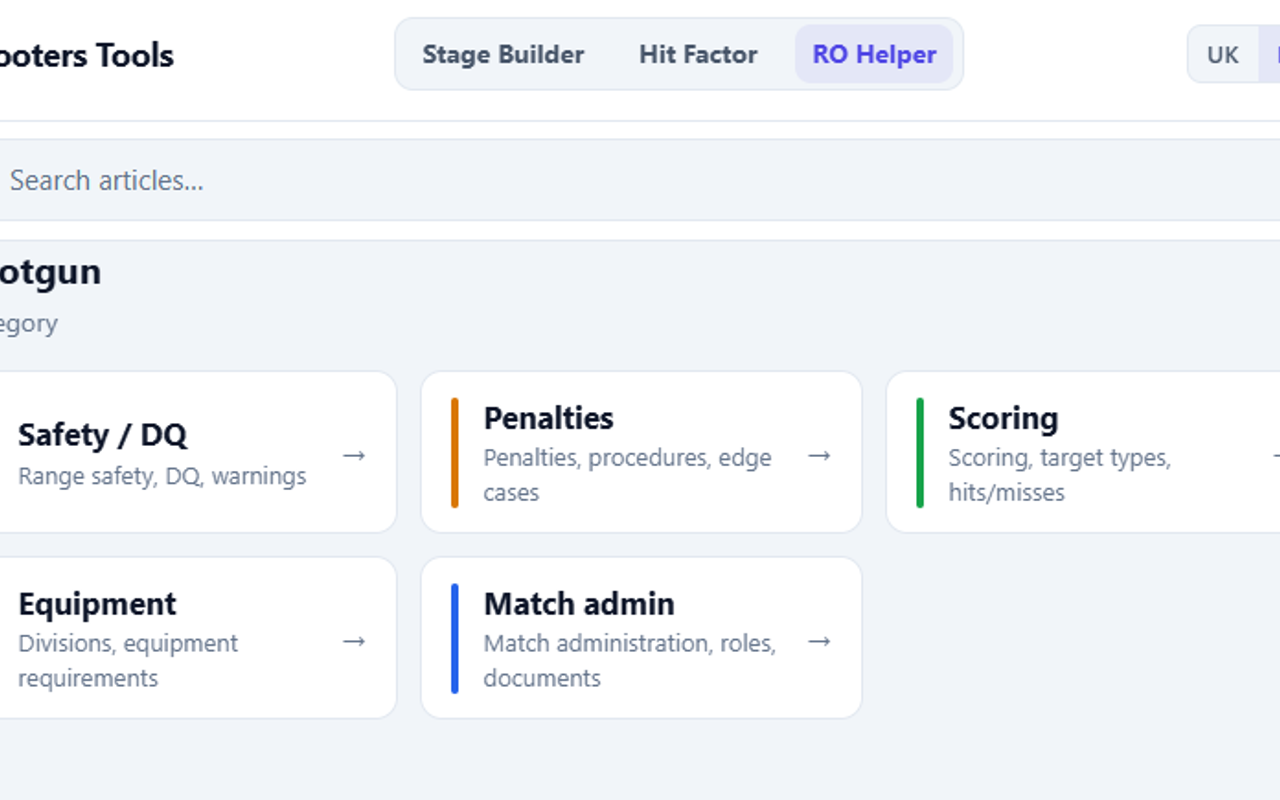
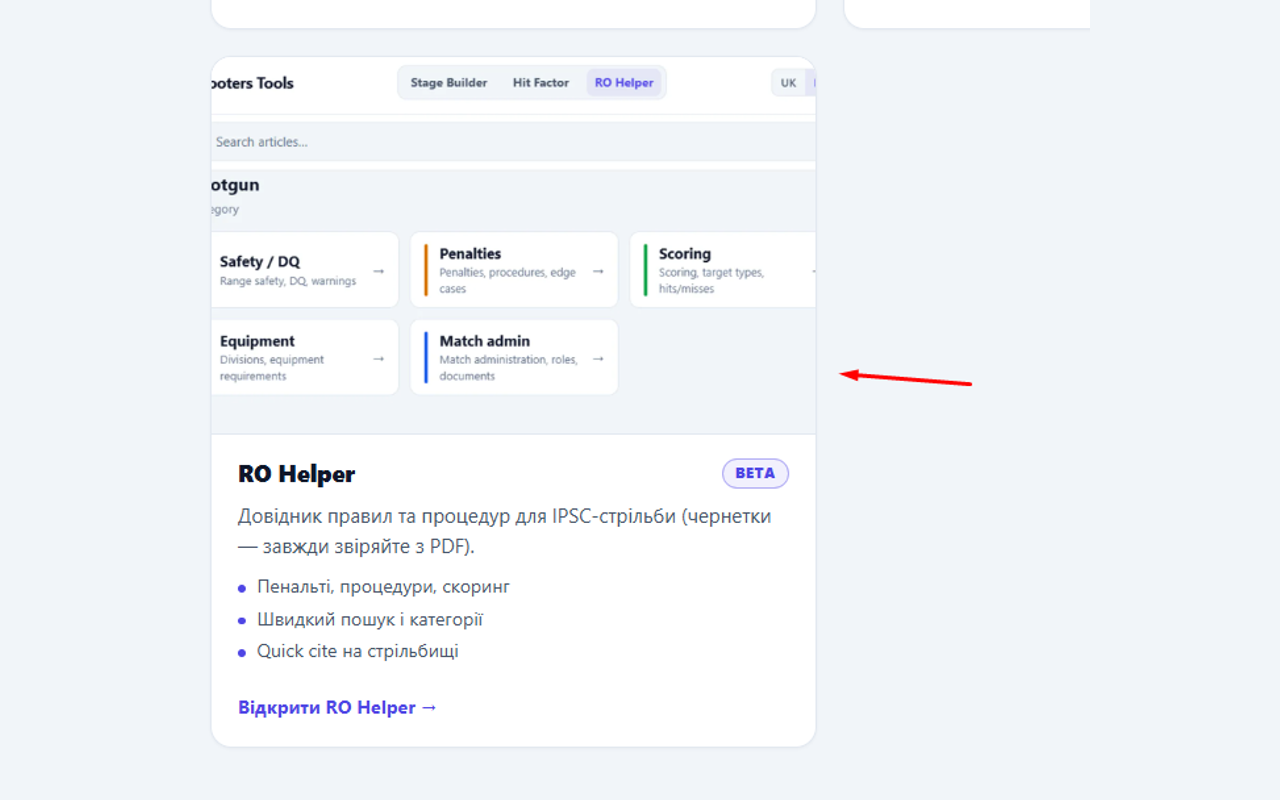
fix(portal): RO Helper preview shows full screenshot without harsh crop
- Regenerate ro-helper.webp/png using portal-preview-prepare contain mode
  (letterbox #f1f5f9) from updated screenshot asset so edges stay visible.
- PortalHome preview images use object-fit contain + centered position to avoid
  double-cropping inside the 16:10 card frame.
- Document PORTAL_PREVIEWS §2.3 RO Helper pipeline.

Made-with: Cursor

diff --git a/src/portal/PortalHome.css b/src/portal/PortalHome.css
@@ -106,7 +106,9 @@
   display: block;
   width: 100%;
   height: 100%;
-  object-fit: cover;
+  /* Full preview bitmap visible (asset is 16:10); avoid double-cropping vs container */
+  object-fit: contain;
+  object-position: center;
 }
 
 .portal-home__product-body {

diff --git a/docs/PORTAL_PREVIEWS.md b/docs/PORTAL_PREVIEWS.md
@@ -59,7 +59,9 @@
   Equipment / Match admin) з кольоровими смужками та короткими описами — типовий вигляд
   модуля для прев’ю на головній порталу.
 - У шапці видно **Shooters Tools** і висвітлений пункт **RO Helper** (контекст продукту).
-- Скрол у верх сторінки, без зайвих елементів поза кадром `16:10`.
+- **Генерація файлу:** режим **`contain`** у `portal-preview-prepare.mjs` (цілий скрін у кадрі
+  `1280×800`, підложка `#f1f5f9`), щоб не відрізати краї UI. У `PortalHome.css` для прев’ю
+  використовується **`object-fit: contain`**, щоб не було подвійного кропу в картці.
 
 ---
 
